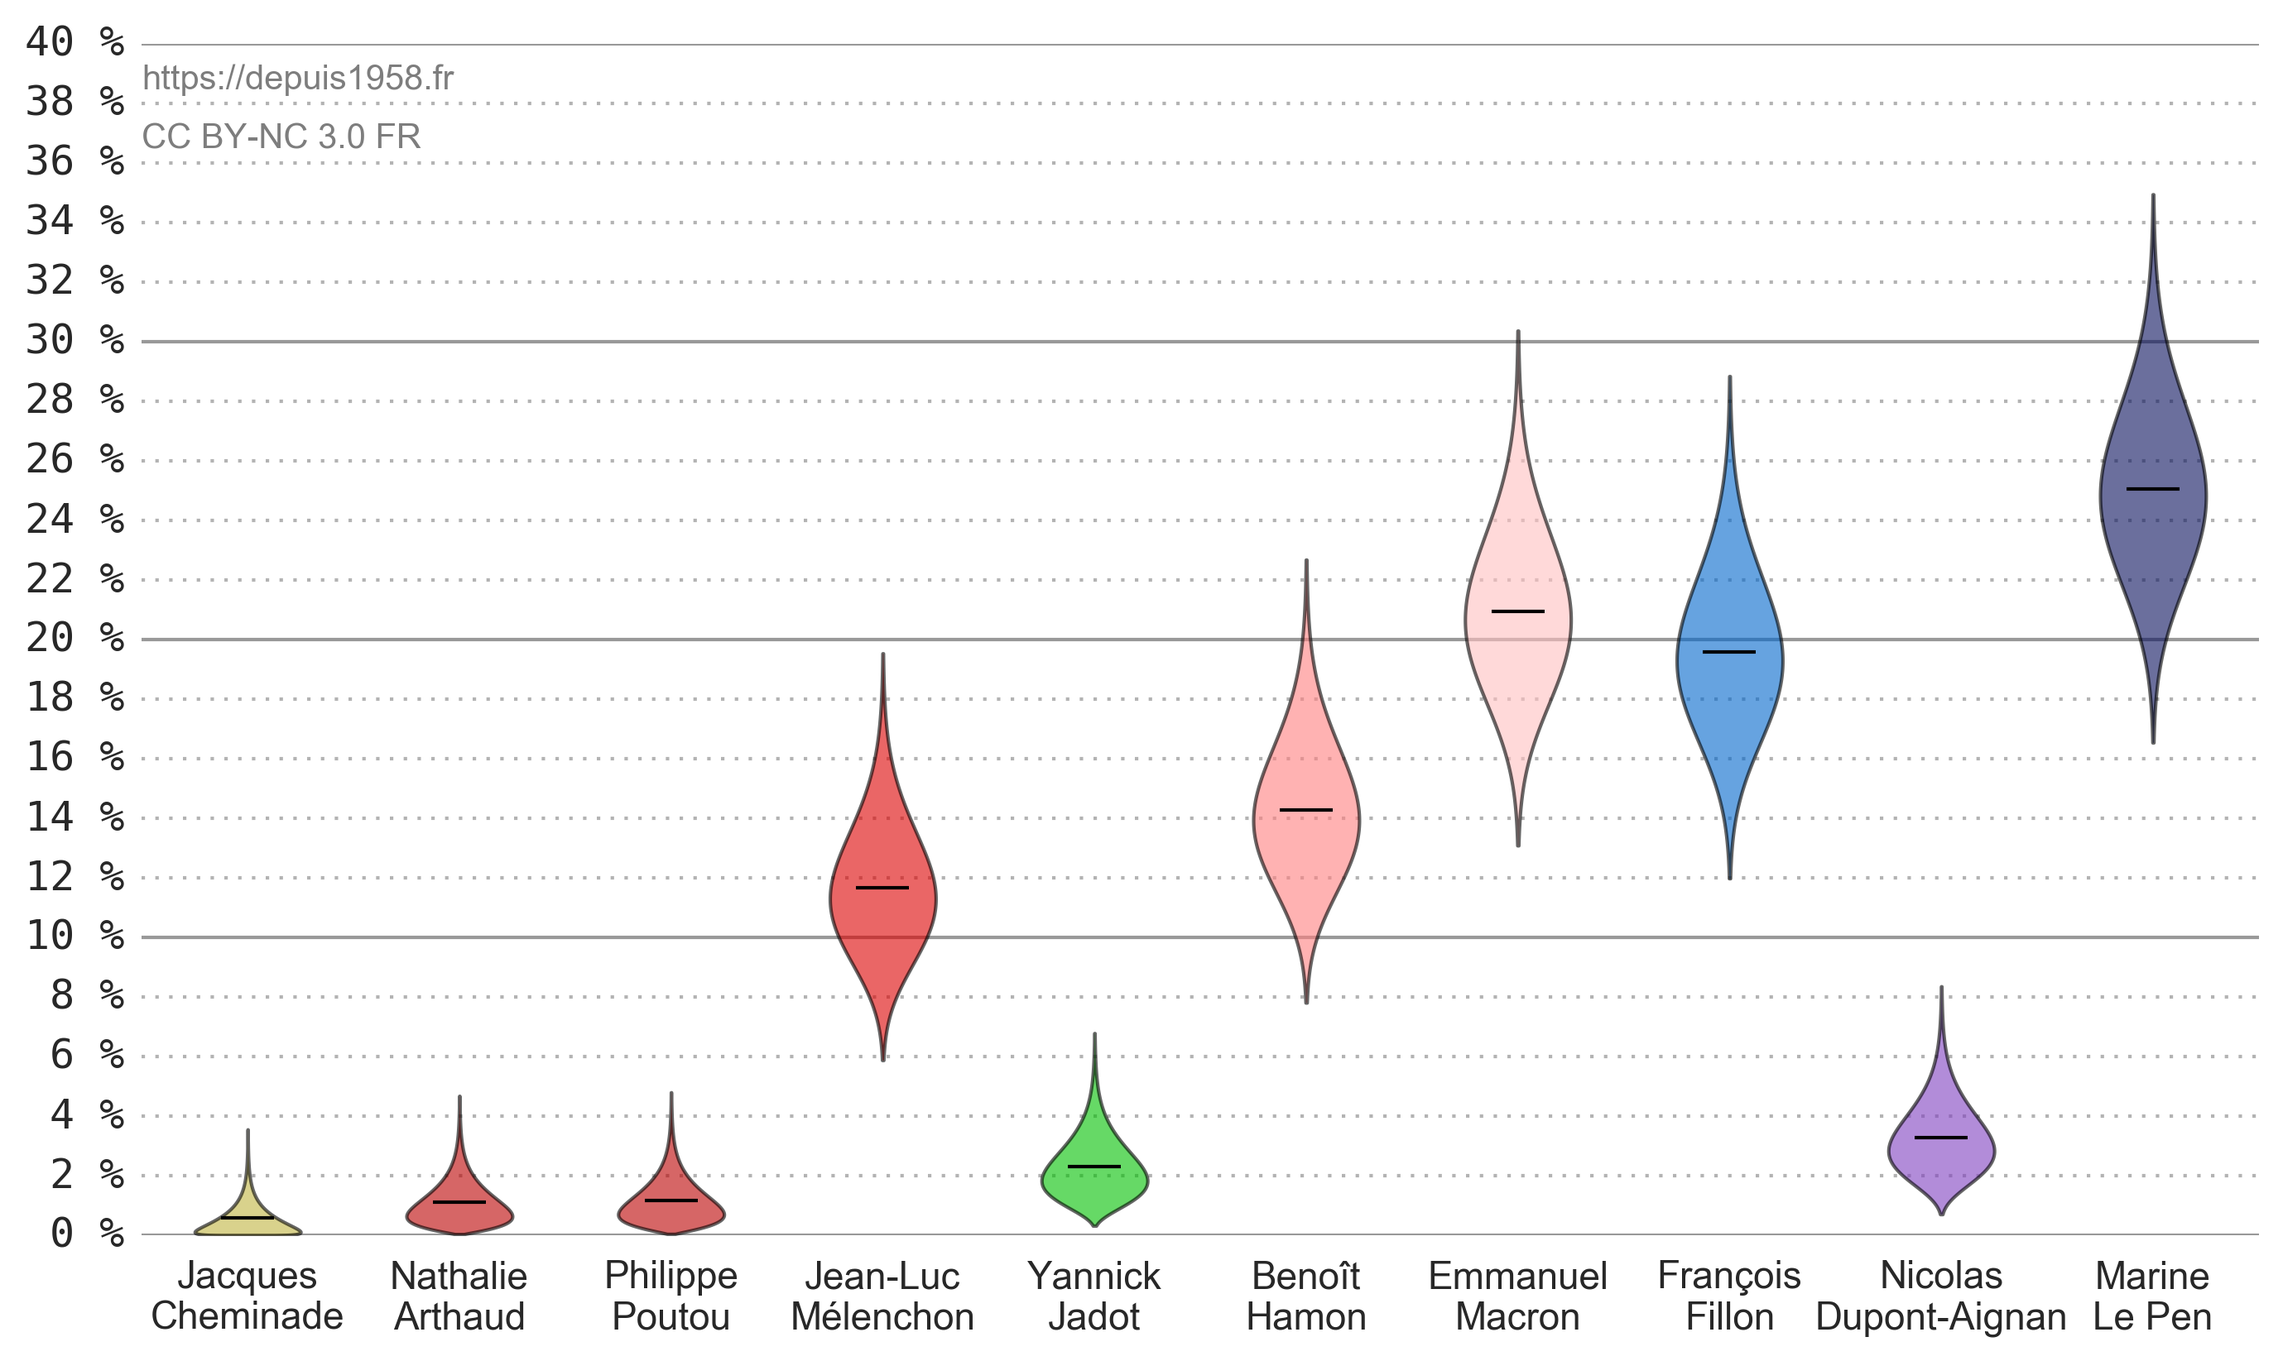
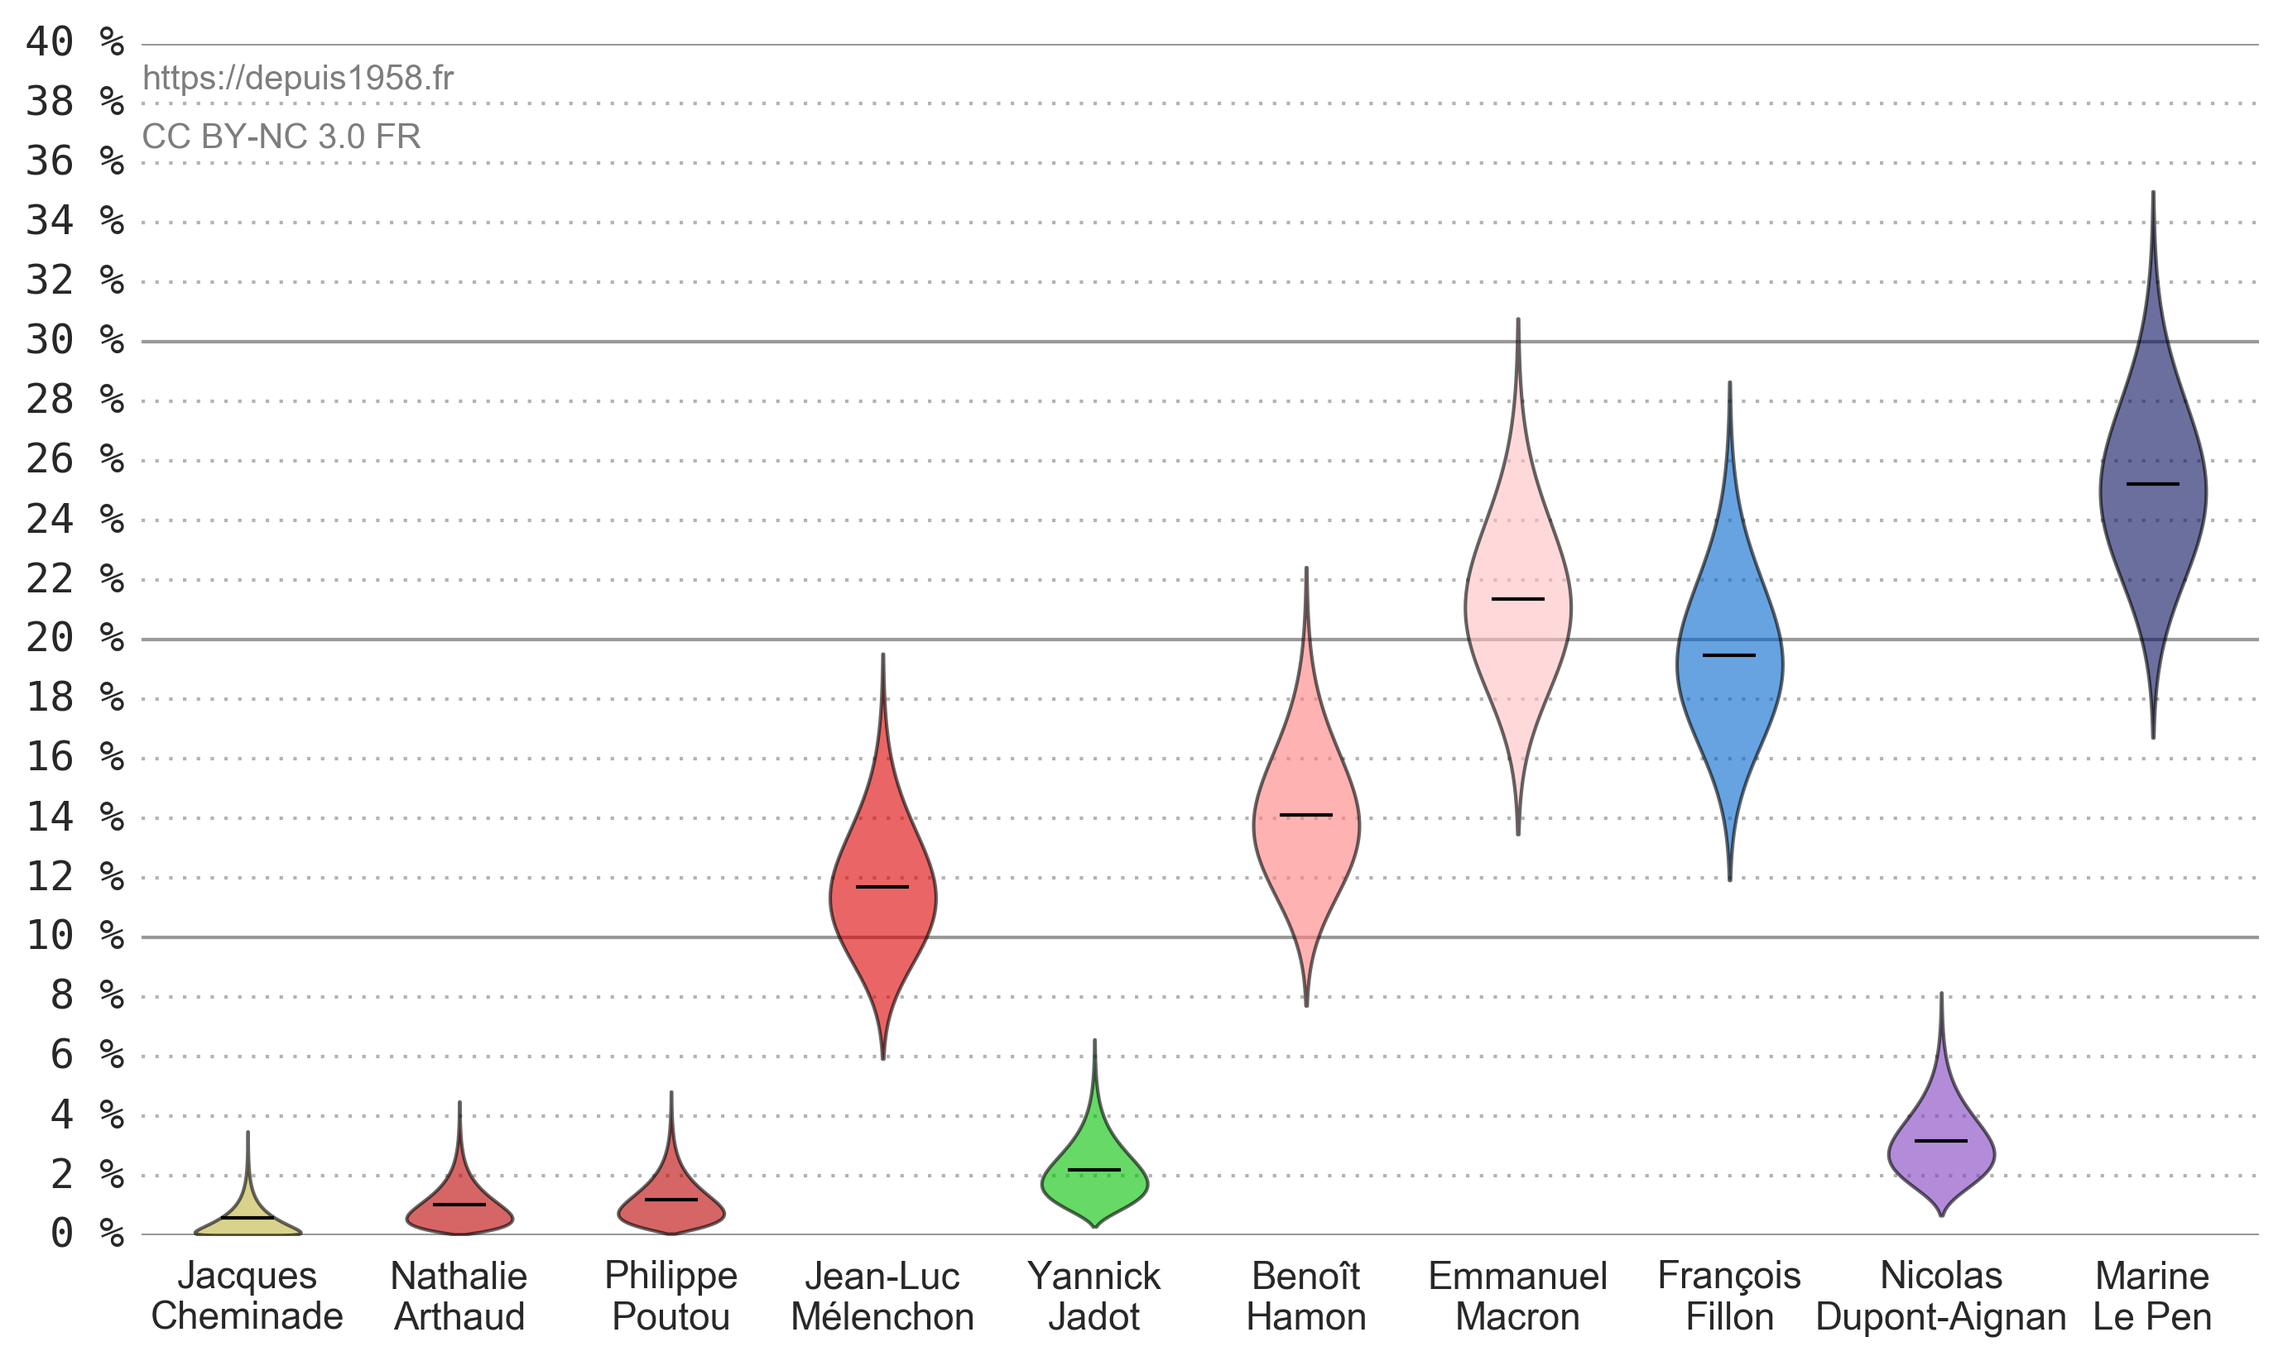
update

diff --git a/public/index.html b/public/index.html
@@ -14,8 +14,8 @@
 <img id="logo" src="/logo.png" alt="Depuis 1958">
 </a>
 <aside>
-    Mis à jour le 25/02/2017 à 11:38<br>
-    71 sondages agrégés<br>
+    Mis à jour le 26/02/2017 à 17:58<br>
+    77 sondages agrégés<br>
     5 000 000 scrutins simulés<br>
 </aside>
 <nav>
@@ -42,7 +42,7 @@ prédit qui va gagner. Peut&#8209;être.</p>
 
 <h2>Probabilité totale de victoire</h2>
 <figure>
-<img src="/time-plot-2017-2017-02-25T11:38:46.932566.png" alt="Probabilité totale de gagner l'élection">
+<img src="/time-plot-2017-2017-02-26T17:58:30.099962.png" alt="Probabilité totale de gagner l'élection">
 </figure>
 
 <table id="table-total">
@@ -52,7 +52,7 @@ prédit qui va gagner. Peut&#8209;être.</p>
         <div class="side-badge" style="background-color:#FFC0C0"></div>
     <strong>Emmanuel Macron</strong>
     </td>
-    <td class="column-percent column-2 percentage">62.7&nbsp;%</td>
+    <td class="column-percent column-2 percentage">67.3&nbsp;%</td>
 </tr>
 
 <tr>
@@ -60,7 +60,7 @@ prédit qui va gagner. Peut&#8209;être.</p>
         <div class="side-badge" style="background-color:#0066CC"></div>
     <strong>François Fillon</strong>
     </td>
-    <td class="column-percent column-2 percentage">33.6&nbsp;%</td>
+    <td class="column-percent column-2 percentage">29.8&nbsp;%</td>
 </tr>
 
 <tr>
@@ -68,7 +68,7 @@ prédit qui va gagner. Peut&#8209;être.</p>
         <div class="side-badge" style="background-color:#FF8080"></div>
     <strong>Benoît Hamon</strong>
     </td>
-    <td class="column-percent column-2 percentage">2.1&nbsp;%</td>
+    <td class="column-percent column-2 percentage">1.6&nbsp;%</td>
 </tr>
 
 <tr>
@@ -76,7 +76,7 @@ prédit qui va gagner. Peut&#8209;être.</p>
         <div class="side-badge" style="background-color:#08105c"></div>
     <strong>Marine Le Pen</strong>
     </td>
-    <td class="column-percent column-2 percentage">1.4&nbsp;%</td>
+    <td class="column-percent column-2 percentage">1.1&nbsp;%</td>
 </tr>
 
 <tr>
@@ -84,7 +84,7 @@ prédit qui va gagner. Peut&#8209;être.</p>
         <div class="side-badge" style="background-color:#DD0000"></div>
     <strong>Jean-Luc Mélenchon</strong>
     </td>
-    <td class="column-percent column-2 percentage">0.2&nbsp;%</td>
+    <td class="column-percent column-2 percentage">0.1&nbsp;%</td>
 </tr>
 
 <tr>
@@ -151,14 +151,14 @@ deux tours.</p>
 
 <tr class="">
     <td rowspan="2" class="column-percent column-1 percentage">
-        57.6&nbsp;%
+        62.3&nbsp;%
     </td>
     <td class="column-candidate column-2 inner-top">
         <div class="side-badge" style="background-color:#FFC0C0"></div>
     <strong>Emmanuel Macron</strong>
     </td>
     <td class="column-percent column-3 inner-top percentage">
-        99.7&nbsp;%
+        99.8&nbsp;%
     </td>
 </tr>
 <tr class="">
@@ -167,20 +167,20 @@ deux tours.</p>
     <strong>Marine Le Pen</strong>
     </td>
     <td class="column-percent column-3 inner-bottom percentage">
-        0.3&nbsp;%
+        0.2&nbsp;%
     </td>
 </tr>
 
 <tr class="">
     <td rowspan="2" class="column-percent column-1 percentage">
-        34.6&nbsp;%
+        30.6&nbsp;%
     </td>
     <td class="column-candidate column-2 inner-top">
         <div class="side-badge" style="background-color:#0066CC"></div>
     <strong>François Fillon</strong>
     </td>
     <td class="column-percent column-3 inner-top percentage">
-        96.5&nbsp;%
+        97.0&nbsp;%
     </td>
 </tr>
 <tr class="">
@@ -189,13 +189,13 @@ deux tours.</p>
     <strong>Marine Le Pen</strong>
     </td>
     <td class="column-percent column-3 inner-bottom percentage">
-        3.5&nbsp;%
+        3.0&nbsp;%
     </td>
 </tr>
 
 <tr class="">
     <td rowspan="2" class="column-percent column-1 percentage">
-        5.4&nbsp;%
+        5.2&nbsp;%
     </td>
     <td class="column-candidate column-2 inner-top">
         <div class="side-badge" style="background-color:#FFC0C0"></div>
@@ -217,7 +217,7 @@ deux tours.</p>
 
 <tr class="">
     <td rowspan="2" class="column-percent column-1 percentage">
-        1.9&nbsp;%
+        1.5&nbsp;%
     </td>
     <td class="column-candidate column-2 inner-top">
         <div class="side-badge" style="background-color:#FF8080"></div>
@@ -1170,8 +1170,8 @@ et leurs propriétés statistiques sont utilisés.</p>
     <td class="column-candidate column-1">
         <strong>Marine Le Pen</strong>
     </td>
-    <td class="column-percent percentage">94.3&nbsp;%</td>
-    <td class="column-percent percentage">5.4&nbsp;%</td>
+    <td class="column-percent percentage">94.5&nbsp;%</td>
+    <td class="column-percent percentage">5.3&nbsp;%</td>
     <td class="column-percent percentage">99.5&nbsp;%</td>
 </tr>
 
@@ -1179,8 +1179,8 @@ et leurs propriétés statistiques sont utilisés.</p>
     <td class="column-candidate column-1">
         <strong>Emmanuel Macron</strong>
     </td>
-    <td class="column-percent percentage">63.2&nbsp;%</td>
-    <td class="column-percent percentage">32.4&nbsp;%</td>
+    <td class="column-percent percentage">67.7&nbsp;%</td>
+    <td class="column-percent percentage">29.1&nbsp;%</td>
     <td class="column-percent percentage">-</td>
 </tr>
 
@@ -1188,17 +1188,17 @@ et leurs propriétés statistiques sont utilisés.</p>
     <td class="column-candidate column-1">
         <strong>François Fillon</strong>
     </td>
-    <td class="column-percent percentage">40.1&nbsp;%</td>
-    <td class="column-percent percentage">50.5&nbsp;%</td>
-    <td class="column-percent percentage">0.5&nbsp;%</td>
+    <td class="column-percent percentage">35.8&nbsp;%</td>
+    <td class="column-percent percentage">54.8&nbsp;%</td>
+    <td class="column-percent percentage">0.4&nbsp;%</td>
 </tr>
 
 <tr>
     <td class="column-candidate column-1">
         <strong>Benoît Hamon</strong>
     </td>
-    <td class="column-percent percentage">2.2&nbsp;%</td>
-    <td class="column-percent percentage">9.9&nbsp;%</td>
+    <td class="column-percent percentage">1.7&nbsp;%</td>
+    <td class="column-percent percentage">9.1&nbsp;%</td>
     <td class="column-percent percentage">0.0&nbsp;%</td>
 </tr>
 
@@ -1208,7 +1208,7 @@ et leurs propriétés statistiques sont utilisés.</p>
     </td>
     <td class="column-percent percentage">0.2&nbsp;%</td>
     <td class="column-percent percentage">1.8&nbsp;%</td>
-    <td class="column-percent percentage">58.1&nbsp;%</td>
+    <td class="column-percent percentage">58.7&nbsp;%</td>
 </tr>
 
 <tr>
@@ -1217,7 +1217,7 @@ et leurs propriétés statistiques sont utilisés.</p>
     </td>
     <td class="column-percent percentage">0.0&nbsp;%</td>
     <td class="column-percent percentage">0.0&nbsp;%</td>
-    <td class="column-percent percentage">76.1&nbsp;%</td>
+    <td class="column-percent percentage">72.0&nbsp;%</td>
 </tr>
 
 <tr>
@@ -1226,7 +1226,7 @@ et leurs propriétés statistiques sont utilisés.</p>
     </td>
     <td class="column-percent percentage">0.0&nbsp;%</td>
     <td class="column-percent percentage">0.0&nbsp;%</td>
-    <td class="column-percent percentage">69.6&nbsp;%</td>
+    <td class="column-percent percentage">68.3&nbsp;%</td>
 </tr>
 
 <tr>
@@ -1235,7 +1235,7 @@ et leurs propriétés statistiques sont utilisés.</p>
     </td>
     <td class="column-percent percentage">0.0&nbsp;%</td>
     <td class="column-percent percentage">0.0&nbsp;%</td>
-    <td class="column-percent percentage">90.8&nbsp;%</td>
+    <td class="column-percent percentage">89.1&nbsp;%</td>
 </tr>
 
 <tr>
@@ -1244,7 +1244,7 @@ et leurs propriétés statistiques sont utilisés.</p>
     </td>
     <td class="column-percent percentage">0.0&nbsp;%</td>
     <td class="column-percent percentage">0.0&nbsp;%</td>
-    <td class="column-percent percentage">43.5&nbsp;%</td>
+    <td class="column-percent percentage">39.2&nbsp;%</td>
 </tr>
 
 <tr>
@@ -1253,7 +1253,7 @@ et leurs propriétés statistiques sont utilisés.</p>
     </td>
     <td class="column-percent percentage">0.0&nbsp;%</td>
     <td class="column-percent percentage">0.0&nbsp;%</td>
-    <td class="column-percent percentage">42.8&nbsp;%</td>
+    <td class="column-percent percentage">44.4&nbsp;%</td>
 </tr>
 
 </table>
@@ -1262,7 +1262,7 @@ et leurs propriétés statistiques sont utilisés.</p>
 
 <footer>
 <p>
-Sources: BVA&nbsp;• Dedicated Research&nbsp;• ELABE pour BFMTV et L’EXPRESS&nbsp;• ELABE pour LES ECHOS et RADIO CLASSIQUE&nbsp;• Harris Interactive pour France Télévisions l’Emission Politique&nbsp;• Ifop – Fiducial pour iTELE, Paris Match et Sud Radio&nbsp;• Ipsos / Sopra Steria pour France 2&nbsp;• Kantar Sofres – OnePoint pour Le Figaro, RTL et LCI&nbsp;• Sondage OpinionWay/ORPI pour Les Echos & Radio Classique&nbsp;• ©Ipsos CEVIPOF LE MONDE – EEF 2017 &nbsp;• ©Ipsos CEVIPOF LE MONDE –EEF 2017 .
+Sources: BVA&nbsp;• Dedicated Research&nbsp;• ELABE pour BFMTV et L’EXPRESS&nbsp;• ELABE pour LES ECHOS et RADIO CLASSIQUE&nbsp;• Harris Interactive pour France Télévisions l’Emission Politique&nbsp;• Ifop – Fiducial pour iTELE, Paris Match et Sud Radio&nbsp;• Ipsos / Sopra Steria pour France 2&nbsp;• Kantar Sofres – OnePoint pour Le Figaro, RTL et LCI&nbsp;• Sondage Odoxa pour Dentsu Consulting et France 2&nbsp;• Sondage OpinionWay/ORPI pour Les Echos & Radio Classique&nbsp;• ©Ipsos CEVIPOF LE MONDE – EEF 2017 &nbsp;• ©Ipsos CEVIPOF LE MONDE –EEF 2017 .
 </p>
 
 <p>

diff --git a/public/2012/index.html b/public/2012/index.html
@@ -14,7 +14,7 @@
 <img id="logo" src="/logo.png" alt="Depuis 1958">
 </a>
 <aside>
-    Mis à jour le 25/02/2017 à 11:37<br>
+    Mis à jour le 26/02/2017 à 17:56<br>
     133 sondages agrégés<br>
     5 000 000 scrutins simulés<br>
 </aside>
@@ -42,7 +42,7 @@ prédit qui va gagner. Peut&#8209;être.</p>
 
 <h2>Probabilité totale de victoire</h2>
 <figure>
-<img src="/time-plot-2012-2017-02-25T11:37:54.298737.png" alt="Probabilité totale de gagner l'élection">
+<img src="/time-plot-2012-2017-02-26T17:57:34.475263.png" alt="Probabilité totale de gagner l'élection">
 </figure>
 
 <table id="table-total">
@@ -81,16 +81,16 @@ prédit qui va gagner. Peut&#8209;être.</p>
 
 <tr>
     <td class="column-candidate column-1">
-        <div class="side-badge" style="background-color:#FF9900"></div>
-    <strong>François Bayrou</strong>
+        <div class="side-badge" style="background-color:#BB0000"></div>
+    <strong>Nathalie Arthaud</strong>
     </td>
     <td class="column-percent column-2 percentage">0.0&nbsp;%</td>
 </tr>
 
 <tr>
     <td class="column-candidate column-1">
-        <div class="side-badge" style="background-color:#BB0000"></div>
-    <strong>Nathalie Arthaud</strong>
+        <div class="side-badge" style="background-color:#FF9900"></div>
+    <strong>François Bayrou</strong>
     </td>
     <td class="column-percent column-2 percentage">0.0&nbsp;%</td>
 </tr>
@@ -1207,7 +1207,7 @@ et leurs propriétés statistiques sont utilisés.</p>
         <strong>François Bayrou</strong>
     </td>
     <td class="column-percent percentage">0.0&nbsp;%</td>
-    <td class="column-percent percentage">1.0&nbsp;%</td>
+    <td class="column-percent percentage">0.9&nbsp;%</td>
     <td class="column-percent percentage">74.4&nbsp;%</td>
 </tr>
 
@@ -1244,7 +1244,7 @@ et leurs propriétés statistiques sont utilisés.</p>
     </td>
     <td class="column-percent percentage">0.0&nbsp;%</td>
     <td class="column-percent percentage">0.0&nbsp;%</td>
-    <td class="column-percent percentage">63.0&nbsp;%</td>
+    <td class="column-percent percentage">62.9&nbsp;%</td>
 </tr>
 
 <tr>
@@ -1253,7 +1253,7 @@ et leurs propriétés statistiques sont utilisés.</p>
     </td>
     <td class="column-percent percentage">0.0&nbsp;%</td>
     <td class="column-percent percentage">0.0&nbsp;%</td>
-    <td class="column-percent percentage">72.8&nbsp;%</td>
+    <td class="column-percent percentage">72.7&nbsp;%</td>
 </tr>
 
 </table>

diff --git a/public/sondages/index.html b/public/sondages/index.html
@@ -13,8 +13,8 @@
 <img id="logo" src="/logo.png" alt="Depuis 1958">
 </a>
 <aside>
-    Mis à jour le 25/02/2017 à 11:38<br>
-    71 sondages agrégés<br>
+    Mis à jour le 26/02/2017 à 17:58<br>
+    77 sondages agrégés<br>
     5 000 000 scrutins simulés<br>
 </aside>
 <nav>
@@ -39,6 +39,8 @@
 
 <li><a href="/data/2017/premier-tour-sans-bayrou.csv" download=premier-tour-sans-bayrou.csv>premier-tour-sans-bayrou.csv</a></li>
 
+<li><a href="/data/2017/premier-tour-sans-jadot.csv" download=premier-tour-sans-jadot.csv>premier-tour-sans-jadot.csv</a></li>
+
 <li><a href="/data/2017/second-tour-fillon-hamon.csv" download=second-tour-fillon-hamon.csv>second-tour-fillon-hamon.csv</a></li>
 
 <li><a href="/data/2017/second-tour-fillon-lepen.csv" download=second-tour-fillon-lepen.csv>second-tour-fillon-lepen.csv</a></li>
@@ -59,7 +61,7 @@
 
 <footer>
 <p>
-Sources: BVA&nbsp;• Dedicated Research&nbsp;• ELABE pour BFMTV et L’EXPRESS&nbsp;• ELABE pour LES ECHOS et RADIO CLASSIQUE&nbsp;• Harris Interactive pour France Télévisions l’Emission Politique&nbsp;• Ifop – Fiducial pour iTELE, Paris Match et Sud Radio&nbsp;• Ipsos / Sopra Steria pour France 2&nbsp;• Kantar Sofres – OnePoint pour Le Figaro, RTL et LCI&nbsp;• Sondage OpinionWay/ORPI pour Les Echos & Radio Classique&nbsp;• ©Ipsos CEVIPOF LE MONDE – EEF 2017 &nbsp;• ©Ipsos CEVIPOF LE MONDE –EEF 2017 .
+Sources: BVA&nbsp;• Dedicated Research&nbsp;• ELABE pour BFMTV et L’EXPRESS&nbsp;• ELABE pour LES ECHOS et RADIO CLASSIQUE&nbsp;• Harris Interactive pour France Télévisions l’Emission Politique&nbsp;• Ifop – Fiducial pour iTELE, Paris Match et Sud Radio&nbsp;• Ipsos / Sopra Steria pour France 2&nbsp;• Kantar Sofres – OnePoint pour Le Figaro, RTL et LCI&nbsp;• Sondage Odoxa pour Dentsu Consulting et France 2&nbsp;• Sondage OpinionWay/ORPI pour Les Echos & Radio Classique&nbsp;• ©Ipsos CEVIPOF LE MONDE – EEF 2017 &nbsp;• ©Ipsos CEVIPOF LE MONDE –EEF 2017 .
 </p>
 
 <p>

diff --git a/public/methodologie/index.html b/public/methodologie/index.html
@@ -16,8 +16,8 @@
 <img id="logo" src="/logo.png" alt="Depuis 1958">
 </a>
 <aside>
-    Mis à jour le 25/02/2017 à 11:38<br>
-    71 sondages agrégés<br>
+    Mis à jour le 26/02/2017 à 17:58<br>
+    77 sondages agrégés<br>
     5 000 000 scrutins simulés<br>
 </aside>
 <nav>
@@ -191,7 +191,7 @@ aucun sondage n'envisage l'hypothèse \(S_{AB}\) on prend un apriori uniforme
 
 <footer>
 <p>
-Sources: BVA&nbsp;• Dedicated Research&nbsp;• ELABE pour BFMTV et L’EXPRESS&nbsp;• ELABE pour LES ECHOS et RADIO CLASSIQUE&nbsp;• Harris Interactive pour France Télévisions l’Emission Politique&nbsp;• Ifop – Fiducial pour iTELE, Paris Match et Sud Radio&nbsp;• Ipsos / Sopra Steria pour France 2&nbsp;• Kantar Sofres – OnePoint pour Le Figaro, RTL et LCI&nbsp;• Sondage OpinionWay/ORPI pour Les Echos & Radio Classique&nbsp;• ©Ipsos CEVIPOF LE MONDE – EEF 2017 &nbsp;• ©Ipsos CEVIPOF LE MONDE –EEF 2017 .
+Sources: BVA&nbsp;• Dedicated Research&nbsp;• ELABE pour BFMTV et L’EXPRESS&nbsp;• ELABE pour LES ECHOS et RADIO CLASSIQUE&nbsp;• Harris Interactive pour France Télévisions l’Emission Politique&nbsp;• Ifop – Fiducial pour iTELE, Paris Match et Sud Radio&nbsp;• Ipsos / Sopra Steria pour France 2&nbsp;• Kantar Sofres – OnePoint pour Le Figaro, RTL et LCI&nbsp;• Sondage Odoxa pour Dentsu Consulting et France 2&nbsp;• Sondage OpinionWay/ORPI pour Les Echos & Radio Classique&nbsp;• ©Ipsos CEVIPOF LE MONDE – EEF 2017 &nbsp;• ©Ipsos CEVIPOF LE MONDE –EEF 2017 .
 </p>
 
 <p>
